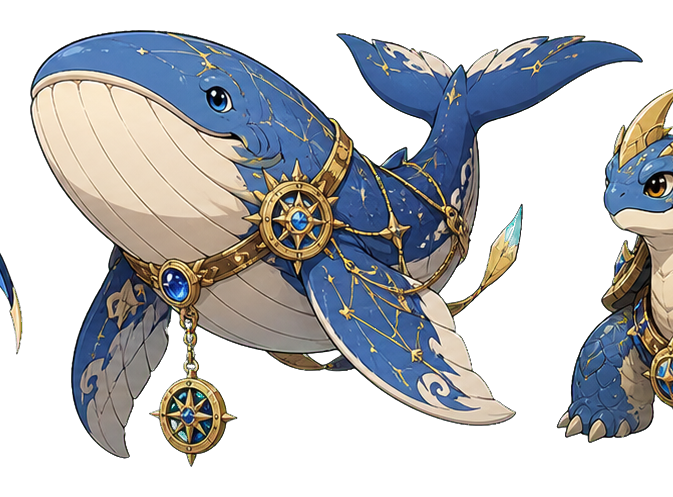
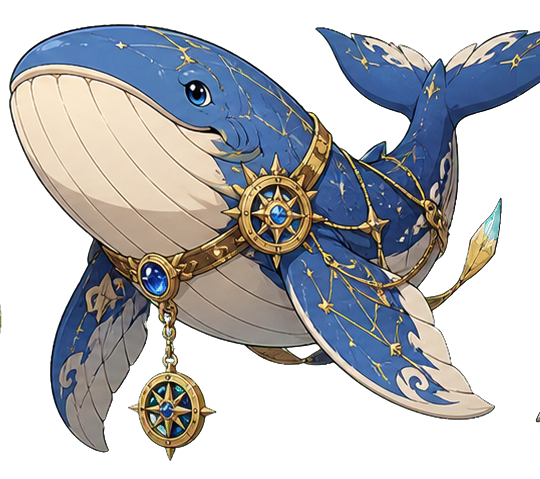
assets: 푸른 아틀라스(blue_atlas) → 니카(nika) 교체 + 아틀라스 이미지 수정

diff --git a/Sources/RuneRivalsEngine/Cards.swift b/Sources/RuneRivalsEngine/Cards.swift
@@ -111,7 +111,7 @@ let RARE: [(ko: String, rom: String, color: Color, cost: ColorMap)] = [
 /// 전설 카드: (한글명, romanized, 보너스색, 비용). 점수 2, 보너스 2. 유니크 존재.
 let LEGENDARY: [(ko: String, rom: String, color: Color, cost: ColorMap)] = [
     ("붉은 노바",     "red_nova",    .red,    [.pink: 3, .blue: 3, .yellow: 3]),
-    ("푸른 아틀라스", "blue_atlas",  .blue,   [.black: 3, .yellow: 3, .red: 3]),
+    ("니카",          "nika",        .blue,   [.black: 3, .yellow: 3, .red: 3]),
     ("황금 아스트라", "gold_astra",  .yellow, [.red: 3, .pink: 3, .black: 3]),
     ("토리",          "tory",        .pink,   [.blue: 3, .yellow: 3, .black: 3]),
     ("공허의 방패",   "void_aegis",  .black,  [.pink: 3, .red: 3, .blue: 3]),